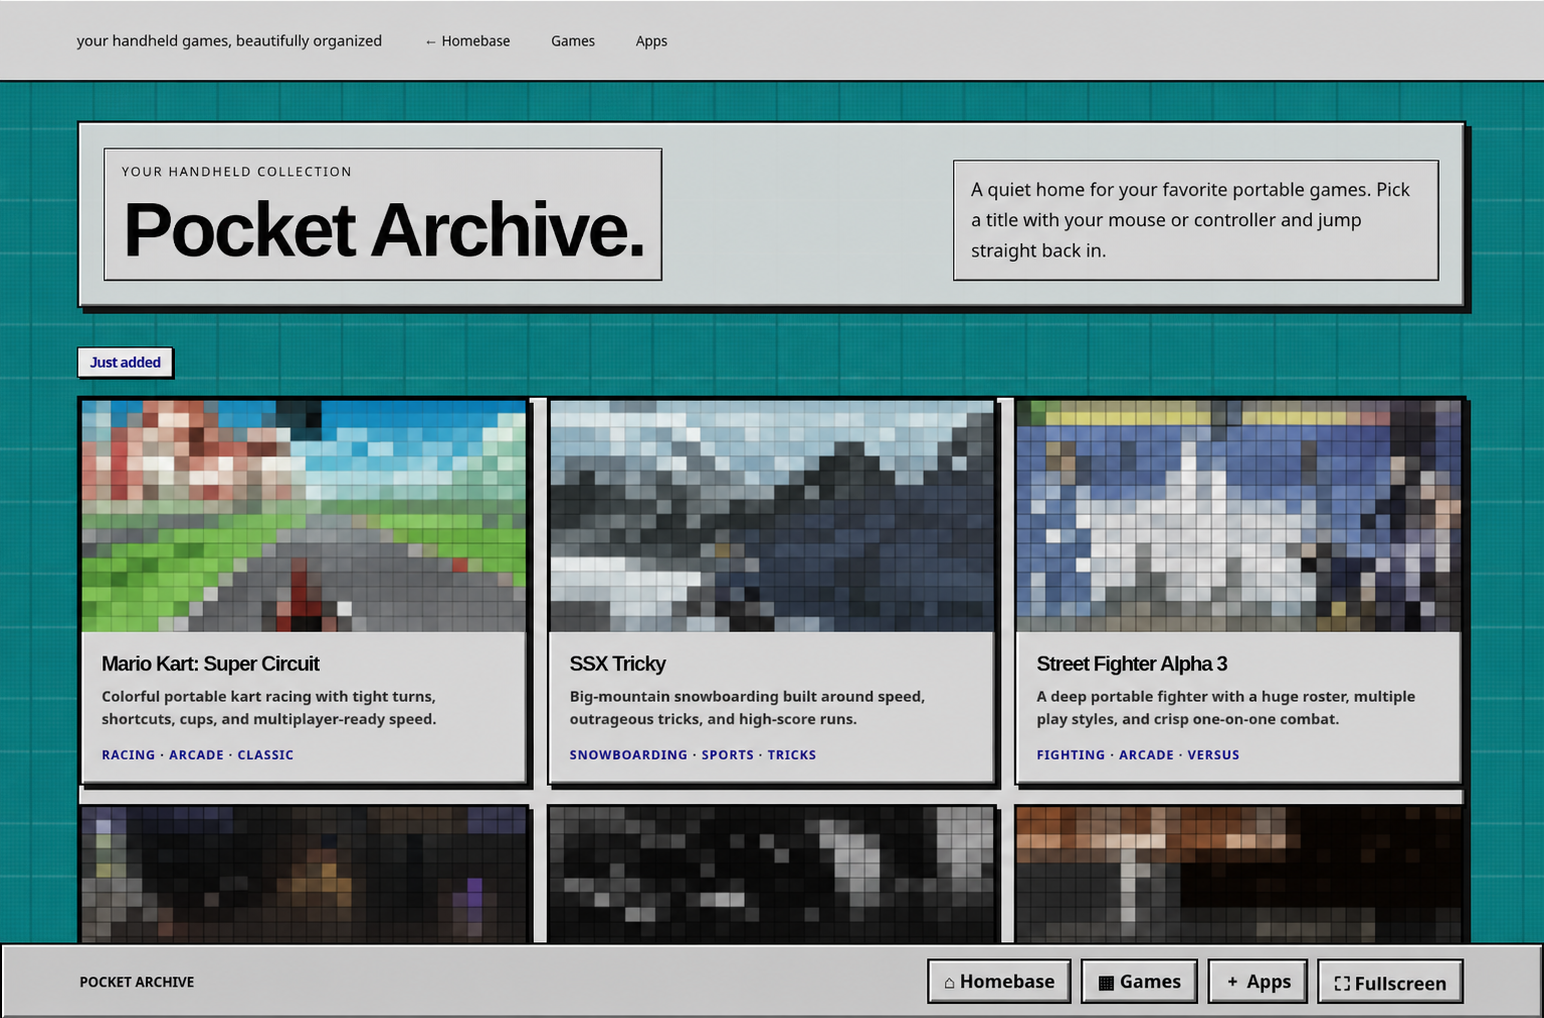
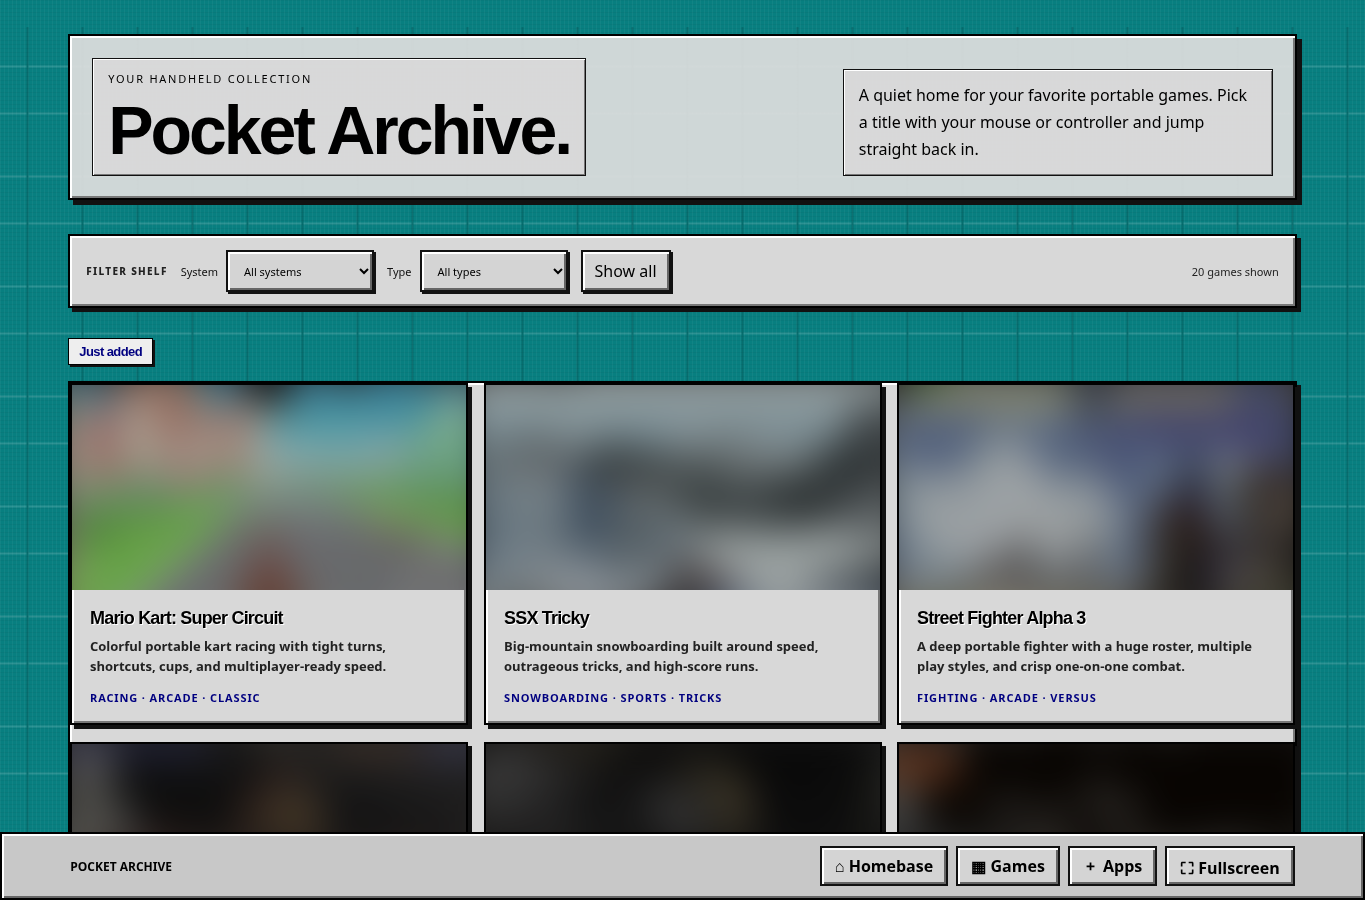
simplify pocket archive navigation chrome

diff --git a/assets/styles/arcade/archive.css b/assets/styles/arcade/archive.css
@@ -27,7 +27,7 @@ html,body{background:var(--ui-bg)!important}.top{background:#161616ed!important}
 [data-theme] body:before,[data-theme] body:after{display:none!important}body>*{position:relative;z-index:1}.eyebrow,.tag{color:var(--ui-focus)!important}.player-back,.control-close{background:var(--ui-action)!important}.control-readout{border-color:var(--ui-action)}.xbox-pad g.active{fill:var(--ui-action);filter:drop-shadow(0 0 10px rgb(var(--ambient-rgb)))}.game{transition:transform .25s ease,border-color .25s,box-shadow .25s,background-color .5s}.game:hover{box-shadow:0 20px 65px rgba(var(--ambient-rgb),.16),0 20px 55px #0009!important}
 /* Windowed emulation is cheaper; both fullscreen routes keep the CRT face. */
 .screen:before{animation:none!important;opacity:.42!important}.screen:after{animation:none!important;box-shadow:inset 0 0 42px #000!important}#player:fullscreen .screen:before,#game:fullscreen:before{animation:crtRoll 7s linear infinite!important;opacity:.7!important}#player:fullscreen .screen:after,#game:fullscreen:after{animation:crtFlicker 4s steps(1) infinite!important;box-shadow:inset 0 0 85px #000!important}#game:fullscreen{position:relative}#game:fullscreen:before,#game:fullscreen:after{content:"";position:absolute;z-index:9999;inset:0;pointer-events:none}#game:fullscreen:before{background:repeating-linear-gradient(0deg,#00000028 0 1px,transparent 1px 3px),repeating-linear-gradient(90deg,#ff00000b 0 1px,#00ff0007 1px 2px,#0000ff0b 2px 3px);mix-blend-mode:multiply}#game:fullscreen:after{background:radial-gradient(ellipse at center,transparent 48%,#00000092 93%,#000 100%)}
-.top{display:flex!important}#library{padding-top:34px!important}
+.top{display:none!important}#library{padding-top:34px!important}
 .archive-taskbar{position:relative;z-index:4;display:flex;align-items:center;gap:8px;padding:12px 5vw;border-top:1px solid var(--ui-border);background:#1c1c1c}.archive-taskbar b{margin-right:auto;font-size:12px;color:#dfe7ea}.archive-taskbar button{min-height:40px;border:1px solid #5e6a71;border-radius:10px;background:#30383d;color:#f3f7f8;padding:0 13px;cursor:pointer}.archive-taskbar button:hover{border-color:var(--ui-focus);background:#3b464c}#player[style*="grid"]~.archive-taskbar{display:none!important}
 [data-theme="ultra-retro"] body:has(#library){background-color:#087f80!important;background-image:linear-gradient(90deg,#ffffff0a 1px,transparent 1px),linear-gradient(#0000000a 1px,transparent 1px)!important;background-size:4px 4px!important;background-attachment:fixed!important}
 [data-theme="ultra-retro"] #library{background:transparent!important;border:0!important;box-shadow:none!important}

diff --git a/sw.js b/sw.js
@@ -1,4 +1,4 @@
-const CACHE='homebase-v76';
+const CACHE='homebase-v77';
 const SHELL=[
   '/', '/index.html', '/manifest.webmanifest', '/assets/icons/homebase-icon.svg',
   '/pages/arcade.html', '/pages/discover.html', '/pages/files.html', '/pages/apps.html',
